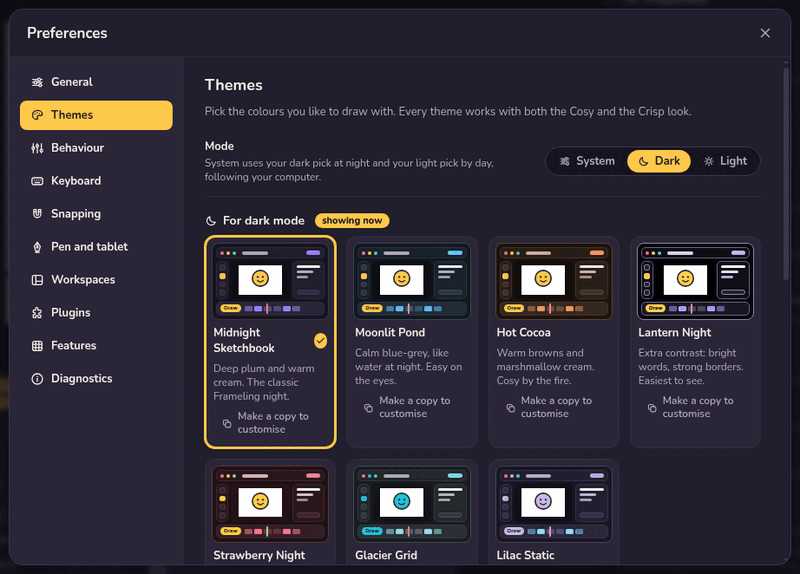
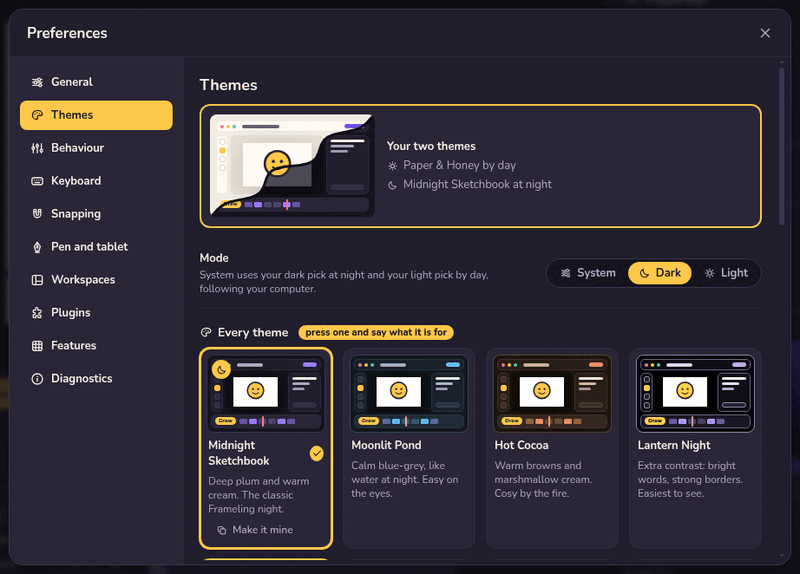
Themes: one grid of every theme, and pressing one asks whether it is for by day, at night or both; the two you use wear a sun or a moon, so Basic and Advanced are not needed any more

Changed region(s): [[0.25, 0.1185, 1.0, 0.9774], [0.9688, 0.7997, 1.0, 0.8293]]

diff --git a/src/ui/themes/ThemesPage.tsx b/src/ui/themes/ThemesPage.tsx
@@ -3,6 +3,7 @@
 import { useCallback, useRef, useState } from 'react';
 import { Icon } from '../icons';
 import { openHelp } from '../overlays';
+import { menuPoint, openDockMenu } from '../dockMenus';
 import { effectiveTheme, getPrefs, setPrefs, usePrefs, type ThemePref } from '../prefs';
 import { toast } from '../toast';
 import { BUILT_IN_THEMES, type Theme } from './builtIn';
@@ -50,11 +51,28 @@ function CurrentTheme({ dark, light }: { dark: Theme; light: Theme }) {
 /** The theme behind an id, falling back to the default for that mode if it has gone. */
 const themeOf = (id: string, mode: ThemeMode, custom: Theme[]): Theme => findTheme(id, custom) ?? BUILT_IN_THEMES.find((t) => t.mode === mode)!;
 
-function ThemeCard({ theme, chosen, onPick, onCopy, onEdit }: { theme: Theme; chosen: boolean; onPick: () => void; onCopy: () => void; onEdit?: () => void }) {
+/** A card in the gallery: the preview, the name, and badges saying which of your two themes it is, if either. */
+function ThemeCard({ theme, use, onPick, onCopy, onEdit }: { theme: Theme; use: { day: boolean; night: boolean }; onPick: (at: { x: number; y: number }) => void; onCopy: () => void; onEdit?: () => void }) {
+  const chosen = use.day || use.night;
+  const says = use.day && use.night ? 'your theme by day and at night' : use.day ? 'your theme by day' : use.night ? 'your theme at night' : 'not in use';
   return (
     <div className={`th-card${chosen ? ' is-chosen' : ''}`}>
-      <button type="button" role="radio" aria-checked={chosen} className="th-card-pick" onClick={onPick} title={theme.description}>
+      <button type="button" className="th-card-pick" onClick={(e) => onPick(menuPoint(e.currentTarget))} title={theme.description} aria-label={`${theme.name}, ${says}`}>
         <ThemePreview theme={theme} />
+        {chosen && (
+          <span className="th-card-badges" aria-hidden="true">
+            {use.day && (
+              <span className="th-card-badge is-day" title="Your theme by day">
+                <Icon name="sun" size={13} />
+              </span>
+            )}
+            {use.night && (
+              <span className="th-card-badge is-night" title="Your theme at night">
+                <Icon name="moon" size={13} />
+              </span>
+            )}
+          </span>
+        )}
         <span className="th-card-name">
           <strong>{theme.name}</strong>
           {chosen && (
@@ -80,21 +98,29 @@ function ThemeCard({ theme, chosen, onPick, onCopy, onEdit }: { theme: Theme; ch
   );
 }
 
-function Gallery({ mode, custom, picked, every, onCopy, onEdit }: { mode: ThemeMode; custom: Theme[]; picked: string; every: boolean; onCopy: (t: Theme) => void; onEdit: (id: string) => void }) {
-  // Basic keeps each list to the themes made for that mode. Advanced offers every theme for either one.
+/** Pressing a theme asks what it is for. Any theme can be either one, however bright or dark it is. */
+function askWhatFor(theme: Theme, at: { x: number; y: number }): void {
+  openDockMenu(at.x, at.y, [
+    { heading: theme.name },
+    { label: 'Use it by day', onClick: () => selectTheme(theme, 'light') },
+    { label: 'Use it at night', onClick: () => selectTheme(theme, 'dark') },
+    { label: 'Use it for both', onClick: () => { selectTheme(theme, 'light'); selectTheme(theme, 'dark'); } },
+  ]);
+}
+
+/** Every theme in one grid. Which of your two a theme is shows on the card, so there is no list to pick from. */
+function Gallery({ custom, day, night, onCopy, onEdit }: { custom: Theme[]; day: string; night: string; onCopy: (t: Theme) => void; onEdit: (id: string) => void }) {
   const all = [...BUILT_IN_THEMES, ...custom];
-  const list = every ? [...all.filter((t) => t.mode === mode), ...all.filter((t) => t.mode !== mode)] : all.filter((t) => t.mode === mode);
-  const showing = effectiveTheme() === mode;
   return (
-    <section className="th-section" aria-label={mode === 'dark' ? 'For dark mode' : 'For light mode'}>
+    <section className="th-section" aria-label="Every theme">
       <h4>
-        <Icon name={mode === 'dark' ? 'moon' : 'sun'} size={15} />
-        {mode === 'dark' ? 'For dark mode' : 'For light mode'}
-        {showing && <span className="th-now">showing now</span>}
+        <Icon name="palette" size={15} />
+        Every theme
+        <span className="th-now">press one and say what it is for</span>
       </h4>
-      <div className="th-grid" role="radiogroup" aria-label={mode === 'dark' ? 'Theme for dark mode' : 'Theme for light mode'}>
-        {list.map((t) => (
-          <ThemeCard key={t.id} theme={t} chosen={t.id === picked} onPick={() => selectTheme(t, mode)} onCopy={() => onCopy(t)} onEdit={t.builtIn ? undefined : () => onEdit(t.id)} />
+      <div className="th-grid" role="group" aria-label="Themes">
+        {all.map((t) => (
+          <ThemeCard key={t.id} theme={t} use={{ day: t.id === day, night: t.id === night }} onPick={(at) => askWhatFor(t, at)} onCopy={() => onCopy(t)} onEdit={t.builtIn ? undefined : () => onEdit(t.id)} />
         ))}
       </div>
     </section>
@@ -169,22 +195,7 @@ export function ThemesPage() {
           ))}
         </div>
       </div>
-      <div className="th-modebar">
-        <div className="ui-pref-text">
-          <strong>Picking</strong>
-          <span>Basic shows the themes made for each mode. Advanced lets any theme be your dark one or your light one, however bright it is.</span>
-        </div>
-        <div className="ui-segmented" role="radiogroup" aria-label="Picking">
-          {([['basic', 'Basic'], ['advanced', 'Advanced']] as const).map(([id, label]) => (
-            <button key={id} type="button" role="radio" aria-checked={(p.themePicking ?? 'basic') === id} className={`ui-seg${(p.themePicking ?? 'basic') === id ? ' is-chosen' : ''}`} onClick={() => setPrefs({ themePicking: id })}>
-              {label}
-            </button>
-          ))}
-        </div>
-      </div>
-
-      <Gallery mode="dark" custom={p.customThemes} picked={p.darkTheme} every={p.themePicking === 'advanced'} onCopy={copy} onEdit={setEditing} />
-      <Gallery mode="light" custom={p.customThemes} picked={p.lightTheme} every={p.themePicking === 'advanced'} onCopy={copy} onEdit={setEditing} />
+      <Gallery custom={p.customThemes} day={p.lightTheme} night={p.darkTheme} onCopy={copy} onEdit={setEditing} />
 
       <div className="th-footer">
         <button type="button" className="ui-btn ui-btn-primary" onClick={() => copy([...BUILT_IN_THEMES, ...p.customThemes].find((t) => t.id === (effectiveTheme() === 'dark' ? p.darkTheme : p.lightTheme)) ?? BUILT_IN_THEMES[0])}>

diff --git a/src/ui/helpTopics.bodies.ts b/src/ui/helpTopics.bodies.ts
@@ -309,12 +309,13 @@ Soft little sounds for quest steps, finished exports and "no". They're on to sta
 
 ## Choosing
 
-Open **Preferences** (**Ctrl+,**), then **Themes**. You'll see two groups:
+Open **Preferences** (**Ctrl+,**), then **Themes**. Every theme sits in one grid. Press one and Frameling asks what it is for:
 
-- **For dark mode**: pick the theme to use when Frameling is dark.
-- **For light mode**: pick the theme to use when Frameling is light.
+- **Use it by day**: it becomes your light theme.
+- **Use it at night**: it becomes your dark theme.
+- **Use it for both**: the same colours whatever the time.
 
-Press a card to pick it. The change is instant. A tick shows which one is in use.
+The change is instant. Your two wear a badge in the corner of the card, a sun by day and a moon at night, with a gold edge round them. Any theme can be either one, however bright or dark it is: a dark theme by day is allowed if that is what you like.
 
 ## Dark, light and System
 
@@ -328,7 +329,7 @@ So you can have a pastel theme by day and a cosy dark one at night, without touc
 
 ## The themes
 
-| For dark mode | For light mode | Mood |
+| The darker one | The lighter one | Mood |
 | --- | --- | --- |
 | **Midnight Sketchbook** | **Paper & Honey** | The classic Frameling look. |
 | **Moonlit Pond** | **Studio White** | Calm and plain. |

diff --git a/src/ui/ui.css b/src/ui/ui.css
@@ -3255,6 +3255,27 @@ body.ui-resizing * {
   gap: 6px;
   padding: 0 2px;
 }
+.th-card-badges {
+  /* Which of your two themes this is: a sun by day, a moon at night, in the corner of the preview. */
+  position: absolute;
+  top: 6px;
+  left: 6px;
+  display: flex;
+  gap: 4px;
+}
+.th-card-badge {
+  display: grid;
+  place-items: center;
+  width: 22px;
+  height: 22px;
+  border-radius: 50%;
+  background: var(--chosen-bg);
+  color: var(--chosen-fg);
+  box-shadow: 0 1px 4px rgb(0 0 0 / 35%);
+}
+.th-card-pick {
+  position: relative;
+}
 .th-card-tick {
   display: grid;
   place-items: center;

diff --git a/brand/ab/themes-pick/note.md b/brand/ab/themes-pick/note.md
@@ -1,0 +1,5 @@
+# Picking a theme
+
+- **after-dark / after-light**: Basic and Advanced are gone. Every theme is in one grid, and pressing one asks what
+  it is for: by day, at night, or both. The one in use wears a sun or a moon in the corner of its preview, a tick by
+  its name and a gold edge. The two themes card at the top is unchanged.
